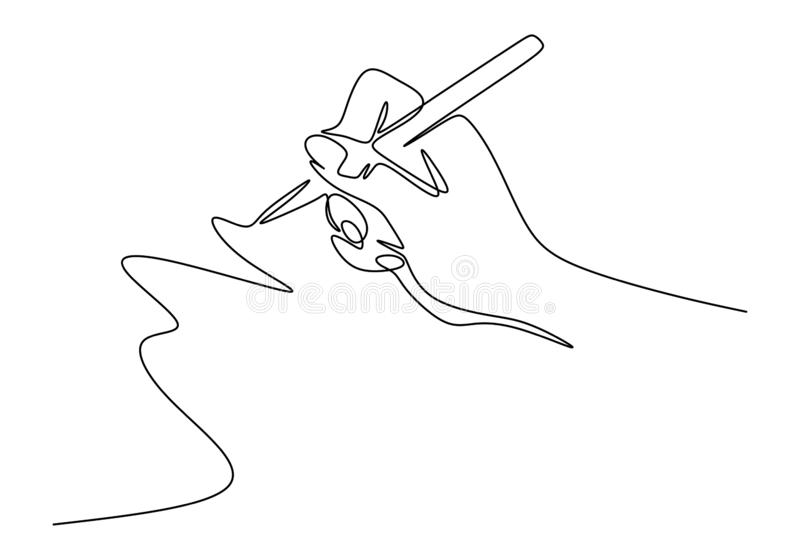
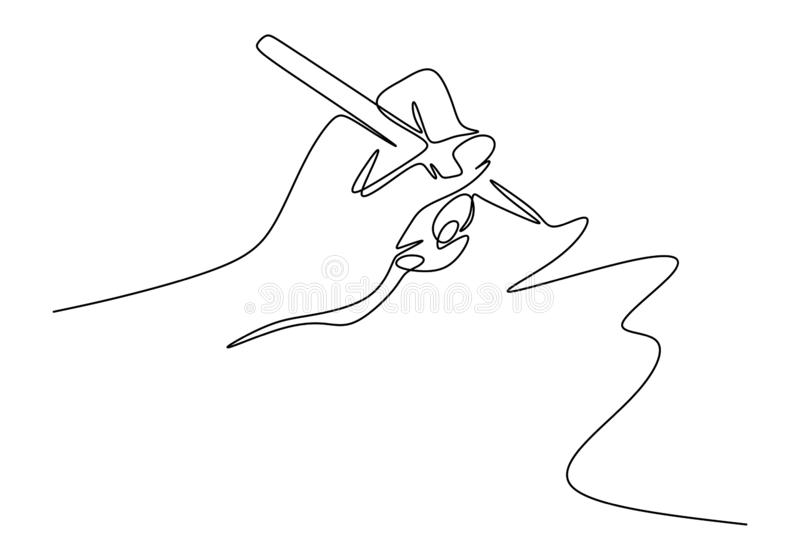
Mejorado diseño y vista modificar temrinada

diff --git a/src/Vista/_11_ModificarDenuncia.java b/src/Vista/_11_ModificarDenuncia.java
@@ -59,6 +59,8 @@ public class _11_ModificarDenuncia extends JFrame implements Vista {
 	private JLabel lblLapiz;
 	private JComboBox comboBox;
 	private JLabel lblVacio;
+	private JLabel lblNewLabel_1;
+	private JLabel lblNewLabel_2;
 
 	/**
 	 * Constructor for the _08_PublicarDenuncia class. Initializes the form and its
@@ -84,14 +86,14 @@ public class _11_ModificarDenuncia extends JFrame implements Vista {
 		ImageIcon imageLapiz = new ImageIcon(getClass().getResource("img/modificar.png"));
 
 		lblCamino = new JLabel("");
-		lblCamino.setBounds(-260, 491, 439, 275);
+		lblCamino.setBounds(811, 370, 439, 275);
 		contentPane.add(lblCamino);
 		ImageIcon sizeCamino = new ImageIcon(imageCamino.getImage().getScaledInstance(lblCamino.getWidth(),
 				lblCamino.getHeight(), Image.SCALE_SMOOTH));
 		lblCamino.setIcon(sizeCamino);
 
 		lblLapiz = new JLabel("");
-		lblLapiz.setBounds(72, 364, 253, 204);
+		lblLapiz.setBounds(669, 411, 253, 204);
 		contentPane.add(lblLapiz);
 		ImageIcon sizeLapiz = new ImageIcon(
 				imageLapiz.getImage().getScaledInstance(lblLapiz.getWidth(), lblLapiz.getHeight(), Image.SCALE_SMOOTH));
@@ -104,7 +106,7 @@ public class _11_ModificarDenuncia extends JFrame implements Vista {
 				miControlador.abrirActualizarFotoDenuncia();
 			}
 		});
-		lblUpload.setBounds(32, 308, 50, 43);
+		lblUpload.setBounds(953, 300, 50, 43);
 		ImageIcon sizeUpload = new ImageIcon(imageUpload.getImage().getScaledInstance(lblUpload.getWidth(),
 				lblUpload.getHeight(), Image.SCALE_SMOOTH));
 		lblUpload.setIcon(sizeUpload);
@@ -115,7 +117,7 @@ public class _11_ModificarDenuncia extends JFrame implements Vista {
 		lblInfo.setHorizontalAlignment(SwingConstants.CENTER);
 		lblInfo.setForeground(new Color(0, 0, 0));
 		lblInfo.setFont(new Font("Tahoma", Font.PLAIN, 30));
-		lblInfo.setBounds(485, 136, 275, 49);
+		lblInfo.setBounds(242, 136, 275, 49);
 		contentPane.add(lblInfo);
 
 		JPanel panel = new JPanel();
@@ -154,7 +156,7 @@ public class _11_ModificarDenuncia extends JFrame implements Vista {
 		lblLogo.setIcon(imageIcon1);
 
 		lblFotoPerfil = new JLabel("");
-		lblFotoPerfil.setBounds(36, 136, 253, 204);
+		lblFotoPerfil.setBounds(750, 136, 253, 204);
 		contentPane.add(lblFotoPerfil);
 		ImageIcon sizeFotoPerfil = new ImageIcon(imageFotoPerfil.getImage().getScaledInstance(lblFotoPerfil.getWidth(),
 				lblFotoPerfil.getHeight(), Image.SCALE_SMOOTH));
@@ -163,61 +165,61 @@ public class _11_ModificarDenuncia extends JFrame implements Vista {
 		JLabel lblUsuario = new JLabel("Codigo postal:");
 		lblUsuario.setForeground(new Color(58, 182, 98));
 		lblUsuario.setFont(new Font("Tahoma", Font.PLAIN, 15));
-		lblUsuario.setBounds(476, 214, 100, 37);
+		lblUsuario.setBounds(138, 214, 100, 37);
 		contentPane.add(lblUsuario);
 
 		JLabel lblUsuario_1 = new JLabel("Provincia:");
 		lblUsuario_1.setForeground(new Color(58, 182, 98));
 		lblUsuario_1.setFont(new Font("Tahoma", Font.PLAIN, 15));
-		lblUsuario_1.setBounds(476, 261, 87, 37);
+		lblUsuario_1.setBounds(138, 261, 87, 37);
 		contentPane.add(lblUsuario_1);
 
 		JLabel lblUsuario_2 = new JLabel("Ciudad:");
 		lblUsuario_2.setForeground(new Color(58, 182, 98));
 		lblUsuario_2.setFont(new Font("Tahoma", Font.PLAIN, 15));
-		lblUsuario_2.setBounds(476, 308, 69, 37);
+		lblUsuario_2.setBounds(138, 308, 69, 37);
 		contentPane.add(lblUsuario_2);
 
 		lblCdigoPostal = new JLabel("Calle:");
 		lblCdigoPostal.setForeground(new Color(58, 182, 98));
 		lblCdigoPostal.setFont(new Font("Tahoma", Font.PLAIN, 15));
-		lblCdigoPostal.setBounds(476, 355, 100, 37);
+		lblCdigoPostal.setBounds(138, 355, 100, 37);
 		contentPane.add(lblCdigoPostal);
 
 		lblContrasea = new JLabel("Categoria:");
 		lblContrasea.setForeground(new Color(58, 182, 98));
 		lblContrasea.setFont(new Font("Tahoma", Font.PLAIN, 15));
-		lblContrasea.setBounds(476, 402, 87, 37);
+		lblContrasea.setBounds(138, 402, 87, 37);
 		contentPane.add(lblContrasea);
 
 		lblPreguntasDeSeguridad = new JLabel("Descripción:");
 		lblPreguntasDeSeguridad.setForeground(new Color(58, 182, 98));
 		lblPreguntasDeSeguridad.setFont(new Font("Tahoma", Font.PLAIN, 15));
-		lblPreguntasDeSeguridad.setBounds(476, 461, 158, 37);
+		lblPreguntasDeSeguridad.setBounds(138, 461, 158, 37);
 		contentPane.add(lblPreguntasDeSeguridad);
 
 		txtProvincia = new JTextField();
 		txtProvincia.setFont(new Font("Tahoma", Font.PLAIN, 15));
-		txtProvincia.setBounds(666, 266, 253, 28);
+		txtProvincia.setBounds(333, 266, 253, 28);
 		contentPane.add(txtProvincia);
 		txtProvincia.setColumns(10);
 
 		txtCp = new JTextField();
 		txtCp.setFont(new Font("Tahoma", Font.PLAIN, 15));
 		txtCp.setColumns(10);
-		txtCp.setBounds(666, 219, 253, 28);
+		txtCp.setBounds(333, 219, 253, 28);
 		contentPane.add(txtCp);
 
 		txtCiudad = new JTextField();
 		txtCiudad.setFont(new Font("Tahoma", Font.PLAIN, 15));
 		txtCiudad.setColumns(10);
-		txtCiudad.setBounds(666, 312, 253, 28);
+		txtCiudad.setBounds(333, 312, 253, 28);
 		contentPane.add(txtCiudad);
 
 		txtCalle = new JTextField();
 		txtCalle.setFont(new Font("Tahoma", Font.PLAIN, 15));
 		txtCalle.setColumns(10);
-		txtCalle.setBounds(666, 360, 253, 28);
+		txtCalle.setBounds(333, 360, 253, 28);
 		contentPane.add(txtCalle);
 
 		JButton btnPublicar = new JButton("Modificar denuncia");
@@ -241,11 +243,11 @@ public class _11_ModificarDenuncia extends JFrame implements Vista {
 			}
 		});
 		btnPublicar.setFont(new Font("Tahoma", Font.BOLD, 15));
-		btnPublicar.setBounds(581, 579, 230, 28);
+		btnPublicar.setBounds(290, 579, 230, 28);
 		contentPane.add(btnPublicar);
 
 		JScrollPane scrollPane = new JScrollPane();
-		scrollPane.setBounds(666, 461, 253, 69);
+		scrollPane.setBounds(333, 461, 253, 69);
 		contentPane.add(scrollPane);
 
 		txtDescripcion = new JTextArea();
@@ -256,13 +258,13 @@ public class _11_ModificarDenuncia extends JFrame implements Vista {
 		comboBox.setFont(new Font("Tahoma", Font.PLAIN, 15));
 		comboBox.setModel(new DefaultComboBoxModel(
 				new String[] { "Iluminación", "Edificios", "Pavimiento", "Naturaleza", "Limpieza" }));
-		comboBox.setBounds(666, 407, 253, 28);
+		comboBox.setBounds(333, 407, 253, 28);
 		contentPane.add(comboBox);
 
 		JLabel lblNewLabel = new JLabel("denuncia");
 		lblNewLabel.setForeground(new Color(58, 182, 98));
 		lblNewLabel.setFont(new Font("Tahoma", Font.PLAIN, 30));
-		lblNewLabel.setBounds(718, 143, 127, 34);
+		lblNewLabel.setBounds(480, 143, 127, 34);
 		contentPane.add(lblNewLabel);
 
 		JLabel lblFotoPerfil_1 = new JLabel("");
@@ -271,8 +273,19 @@ public class _11_ModificarDenuncia extends JFrame implements Vista {
 
 		lblVacio = new JLabel("");
 		lblVacio.setForeground(new Color(255, 0, 0));
-		lblVacio.setBounds(666, 190, 253, 14);
+		lblVacio.setBounds(333, 190, 253, 14);
 		contentPane.add(lblVacio);
+		
+		lblNewLabel_1 = new JLabel("#");
+		lblNewLabel_1.setForeground(new Color(58, 182, 98));
+		lblNewLabel_1.setFont(new Font("Tahoma", Font.PLAIN, 20));
+		lblNewLabel_1.setBounds(760, 351, 46, 14);
+		contentPane.add(lblNewLabel_1);
+		
+		lblNewLabel_2 = new JLabel("1234123");
+		lblNewLabel_2.setFont(new Font("Tahoma", Font.PLAIN, 20));
+		lblNewLabel_2.setBounds(777, 347, 110, 20);
+		contentPane.add(lblNewLabel_2);
 
 	}
 
